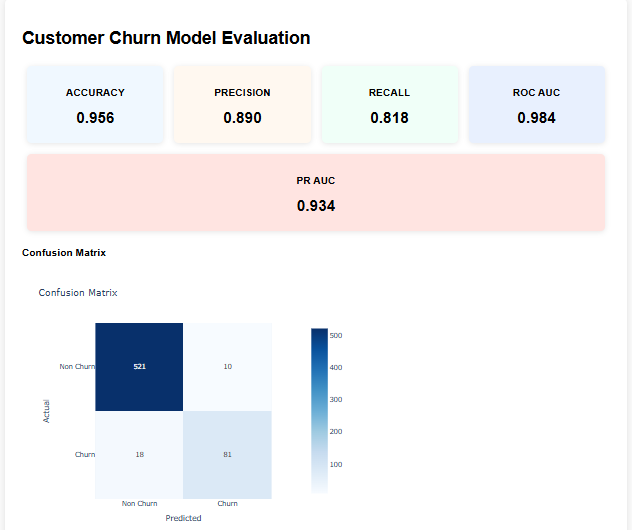
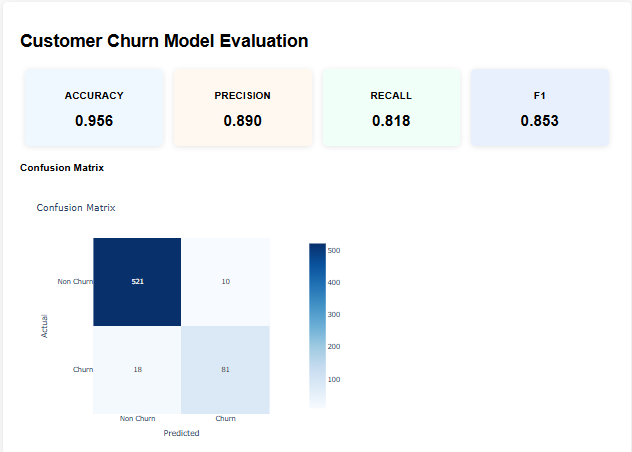
updated model evaluator code, images

diff --git a/steps/model_evaluator.py b/steps/model_evaluator.py
@@ -1,18 +1,15 @@
 from typing import Dict, Tuple
 import numpy as np
 import pandas as pd
-import plotly.graph_objects as go
 import plotly.express as px
+import plotly.graph_objects as go
 import xgboost as xgb
 from sklearn.metrics import (
     accuracy_score,
     precision_score,
     recall_score,
-    roc_auc_score,
-    auc,
+    f1_score,
     confusion_matrix,
-    precision_recall_curve,
-    roc_curve,
 )
 from typing_extensions import Annotated
 from zenml import step
@@ -22,8 +19,8 @@ from zenml.types import HTMLString
 def generate_evaluation_html(
     y_test: pd.Series,
     y_pred: np.ndarray,
-    y_pred_proba: np.ndarray,
     metrics: Dict[str, float],
+    feature_importance_fig: go.Figure,
 ) -> str:
     """Generate HTML visualization of model evaluation results."""
 
@@ -41,52 +38,10 @@ def generate_evaluation_html(
     cm_fig.update_layout(width=600, height=500)
     cm_html = cm_fig.to_html(full_html=False, include_plotlyjs="cdn")
 
-    # ROC Curve
-    fpr, tpr, _ = roc_curve(y_test, y_pred_proba)
-    roc_fig = go.Figure()
-    roc_fig.add_trace(go.Scatter(x=fpr, y=tpr, mode="lines", name=f"ROC (AUC = {metrics['roc_auc']:.3f})"))
-    roc_fig.add_trace(go.Scatter(x=[0, 1], y=[0, 1], mode="lines", name="Random", line=dict(dash="dash", color="gray")))
-    roc_fig.update_layout(
-        title="ROC Curve",
-        xaxis_title="False Positive Rate",
-        yaxis_title="True Positive Rate",
-        width=600,
-        height=500,
-        template="plotly_white",
-    )
-    roc_html = roc_fig.to_html(full_html=False, include_plotlyjs="cdn")
+    # Feature Importance HTML
+    feature_importance_html = feature_importance_fig.to_html(full_html=False, include_plotlyjs="cdn")
 
-    # Precision-Recall Curve
-    precision, recall, _ = precision_recall_curve(y_test, y_pred_proba)
-    pr_fig = go.Figure()
-    pr_fig.add_trace(go.Scatter(x=recall, y=precision, mode="lines", name=f"PR (AUC = {metrics['pr_auc']:.3f})"))
-    pr_fig.update_layout(
-        title="Precision-Recall Curve",
-        xaxis_title="Recall",
-        yaxis_title="Precision",
-        width=600,
-        height=500,
-        template="plotly_white",
-    )
-    pr_html = pr_fig.to_html(full_html=False, include_plotlyjs="cdn")
-
-    # Prediction Probability Distribution
-    pred_df = pd.DataFrame({"actual": y_test, "predicted_proba": y_pred_proba})
-    dist_fig = px.histogram(
-        pred_df,
-        x="predicted_proba",
-        color="actual",
-        nbins=30,
-        opacity=0.7,
-        barmode="overlay",
-        title="Distribution of Prediction Probabilities",
-        labels={"predicted_proba": "Predicted Probability", "actual": "Actual Churn"},
-        color_discrete_map={0: "#636EFA", 1: "#E64E33"},
-    )
-    dist_fig.update_layout(width=700, height=500, template="plotly_white")
-    dist_html = dist_fig.to_html(full_html=False, include_plotlyjs="cdn")
-
-    # Build HTML
+    # HTML Page
     html_parts = ["""
     <html><head><style>
         body { font-family: Arial; background-color: #f9f9f9; padding: 20px; }
@@ -107,10 +62,9 @@ def generate_evaluation_html(
         <div class="metrics">
     """]
 
-    # Metric cards
     for name, color in zip(
-        ["accuracy", "precision", "recall", "roc_auc", "pr_auc"],
-        ["#f0f8ff", "#fff8f0", "#f0fff8", "#e8f0fe", "#ffe4e1"],
+        ["accuracy", "precision", "recall", "f1"],
+        ["#f0f8ff", "#fff8f0", "#f0fff8", "#e8f0fe"],
     ):
         html_parts.append(f"""
         <div class="metric-card" style="background-color: {color};">
@@ -122,11 +76,8 @@ def generate_evaluation_html(
     html_parts.append("</div><div class='row'>")
 
     # Plots
-    html_parts.append(f"<div class='column'><div class='plot-container'><h3>Confusion Matrix</h3>{cm_html}</div>")
-    html_parts.append(f"<div class='plot-container'><h3>ROC Curve</h3>{roc_html}</div></div>")
-
-    html_parts.append(f"<div class='column'><div class='plot-container'><h3>Precision-Recall Curve</h3>{pr_html}</div>")
-    html_parts.append(f"<div class='plot-container'><h3>Prediction Distribution</h3>{dist_html}</div></div>")
+    html_parts.append(f"<div class='column'><div class='plot-container'><h3>Confusion Matrix</h3>{cm_html}</div></div>")
+    html_parts.append(f"<div class='column'><div class='plot-container'><h3>Feature Importances</h3>{feature_importance_html}</div></div>")
 
     html_parts.append("</div></div></body></html>")
     return "".join(html_parts)
@@ -144,23 +95,37 @@ def evaluate_model(
     """Evaluates XGBoost classifier and returns metrics + visual report."""
 
     y_pred = model.predict(X_test)
-    y_pred_proba = model.predict_proba(X_test)[:, 1]
 
     # Metrics
     accuracy = accuracy_score(y_test, y_pred)
     precision_val = precision_score(y_test, y_pred)
     recall_val = recall_score(y_test, y_pred)
-    roc_auc = roc_auc_score(y_test, y_pred_proba)
-    precision, recall, _ = precision_recall_curve(y_test, y_pred_proba)
-    pr_auc = auc(recall, precision)
+    f1 = f1_score(y_test, y_pred)
 
     metrics = {
         "accuracy": accuracy,
         "precision": precision_val,
         "recall": recall_val,
-        "roc_auc": roc_auc,
-        "pr_auc": pr_auc,
+        "f1": f1,
     }
 
-    html_report = generate_evaluation_html(y_test, y_pred, y_pred_proba, metrics)
+    # Feature Importance: Top 10
+    booster = model.get_booster()
+    importance = booster.get_score(importance_type='gain')
+    importance_df = pd.DataFrame(
+        list(importance.items()), columns=["feature", "importance"]
+    ).sort_values(by="importance", ascending=True).head(10)
+
+    feature_fig = px.bar(
+        importance_df,
+        x="importance",
+        y="feature",
+        orientation="h",
+        title="Feature Importances (by Gain)",
+        labels={"importance": "Importance", "feature": "Feature"},
+        color_discrete_sequence=["royalblue"],
+    )
+    feature_fig.update_layout(height=400)
+
+    html_report = generate_evaluation_html(y_test, y_pred, metrics, feature_fig)
     return metrics, HTMLString(html_report)
